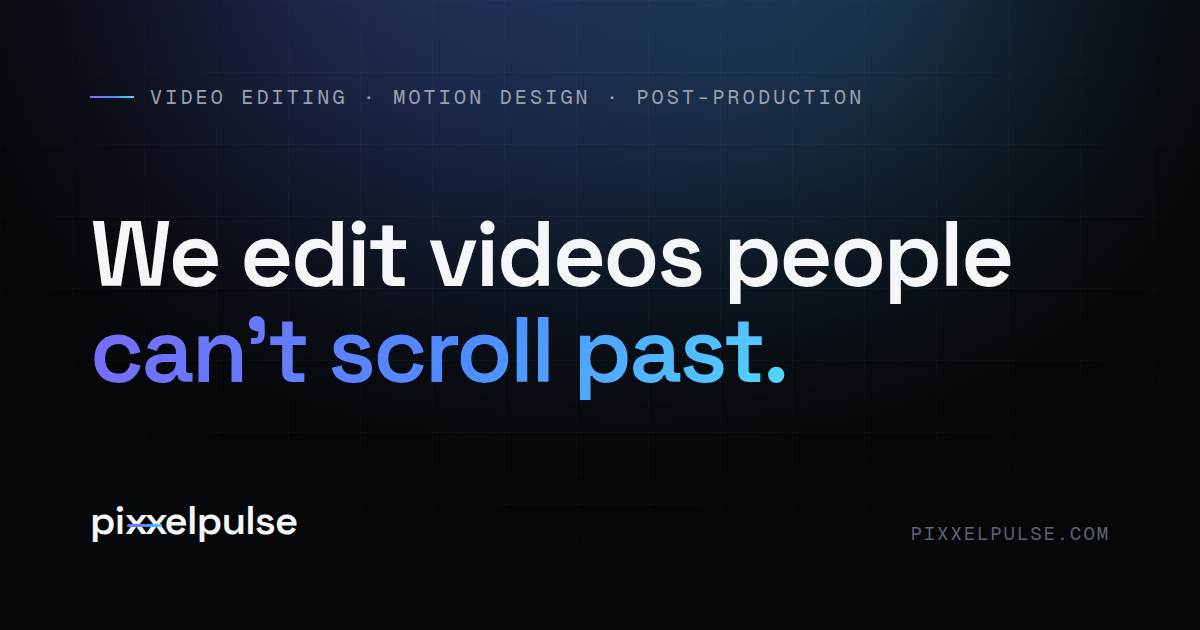
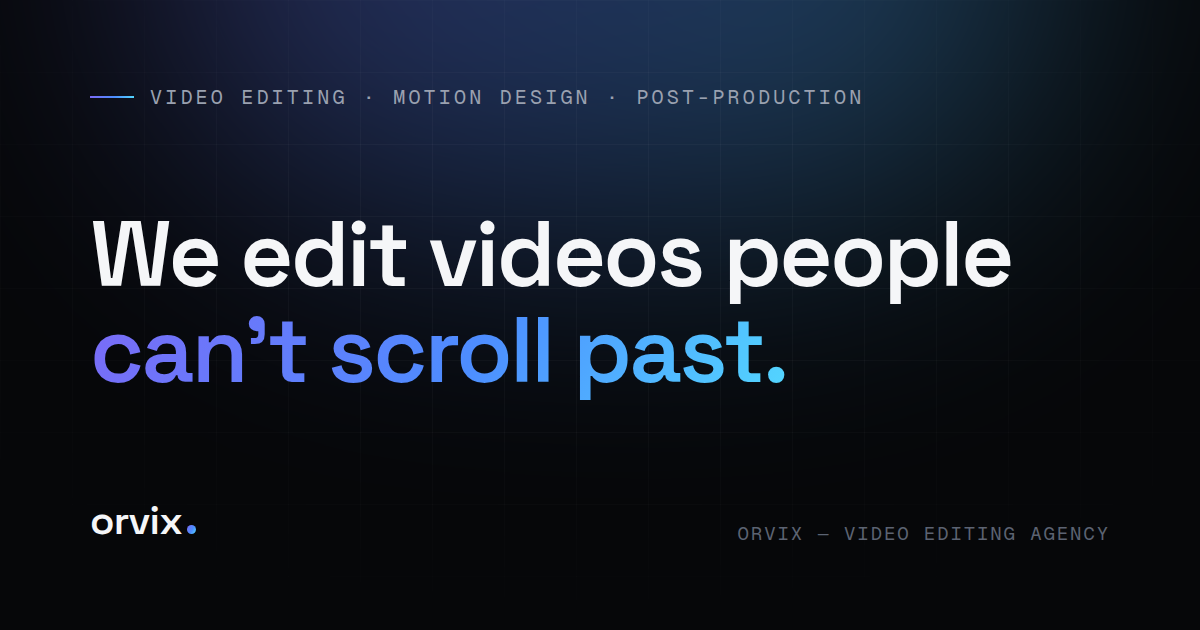
Rebrand to Orvix (interim brand name)
Wordmark, preloader, footer, metadata, JSON-LD, copy, and OG image now
carry the Orvix name. Domain, email, and social URLs unchanged pending
final brand decision.

Claude-Session: https://claude.ai/code/session_019smoYqEVk1jwg6t3PffYNN

Changed region(s): [[0.7092, 0.8143, 0.925, 0.8746], [0.0617, 0.8143, 0.2467, 0.8746], [0.6167, 0.8143, 0.6783, 0.8746]]

diff --git a/components/ui/Logo.tsx b/components/ui/Logo.tsx
@@ -1,27 +1,23 @@
 import { cn } from "@/lib/utils";
 
 /**
- * The pixxelpulse wordmark — the double-x carries a gradient pulse line
- * through its intersection.
+ * The Orvix wordmark — interim brand mark: lowercase display type with a
+ * gradient pulse dot. Final logo lands once the brand name is locked.
  */
 export function Wordmark({ className }: { className?: string }) {
   return (
     <span
       className={cn(
-        "relative inline-flex items-baseline font-display text-[1.35rem] font-semibold lowercase tracking-tight text-fg",
+        "relative inline-flex items-baseline gap-[3px] font-display text-[1.4rem] font-semibold lowercase tracking-tight text-fg",
         className
       )}
     >
-      pi
-      <span className="relative inline-block tracking-[-0.08em]">
-        xx
-        <span
-          aria-hidden
-          className="absolute left-[8%] right-[8%] top-1/2 h-[2px] -translate-y-1/2 rounded-full"
-          style={{ background: "var(--gradient-pulse)" }}
-        />
-      </span>
-      elpulse
+      orvix
+      <span
+        aria-hidden
+        className="mb-[3px] inline-block size-[7px] self-end rounded-full"
+        style={{ background: "var(--gradient-pulse)" }}
+      />
     </span>
   );
 }

diff --git a/content/services.ts b/content/services.ts
@@ -62,7 +62,7 @@ export const services: Service[] = [
     seo: {
       title: "Short-Form Video Editing Service — Reels, TikTok & Shorts",
       description:
-        "Premium short-form video editing for creators and brands. Hook-first Reels, TikToks, and Shorts with kinetic captions, delivered in 48–72 hours by Pixxelpulse.",
+        "Premium short-form video editing for creators and brands. Hook-first Reels, TikToks, and Shorts with kinetic captions, delivered in 48–72 hours by Orvix.",
     },
   },
   {
@@ -110,7 +110,7 @@ export const services: Service[] = [
     seo: {
       title: "YouTube Video Editing Service — Long-Form & Retention Editing",
       description:
-        "YouTube and long-form video editing engineered for retention. Full episode edits, documentary post-production, and weekly publishing pipelines by Pixxelpulse.",
+        "YouTube and long-form video editing engineered for retention. Full episode edits, documentary post-production, and weekly publishing pipelines by Orvix.",
     },
   },
   {
@@ -154,7 +154,7 @@ export const services: Service[] = [
     seo: {
       title: "Motion Graphics & Animation Studio — Brand Motion Systems",
       description:
-        "Motion design studio for brands and creators: logo animation, intros, lower thirds, explainer animation, and VFX. Build a motion identity with Pixxelpulse.",
+        "Motion design studio for brands and creators: logo animation, intros, lower thirds, explainer animation, and VFX. Build a motion identity with Orvix.",
     },
   },
   {
@@ -198,7 +198,7 @@ export const services: Service[] = [
     seo: {
       title: "Video Ad Editing & Performance Creative Agency",
       description:
-        "Performance video creative for paid social: UGC-style ads, A/B variant packs, and platform-ratio exports delivered in 48–72 hours by Pixxelpulse.",
+        "Performance video creative for paid social: UGC-style ads, A/B variant packs, and platform-ratio exports delivered in 48–72 hours by Orvix.",
     },
   },
   {
@@ -242,7 +242,7 @@ export const services: Service[] = [
     seo: {
       title: "Podcast Editing Service — Episodes, Clips & Audiograms",
       description:
-        "Podcast post-production that turns one recording into a week of content: full episode edits, 10+ vertical clips, and audiograms. By Pixxelpulse.",
+        "Podcast post-production that turns one recording into a week of content: full episode edits, 10+ vertical clips, and audiograms. By Orvix.",
     },
   },
   {
@@ -253,7 +253,7 @@ export const services: Service[] = [
     heroEyebrow: "Service — White-Label",
     heroHeading: "Your agency's post-production department.",
     heroSub:
-      "Marketing agencies, production studios, and design teams plug Pixxelpulse in as invisible editing capacity — NDA-first, SLA-backed, delivered under your brand.",
+      "Marketing agencies, production studios, and design teams plug Orvix in as invisible editing capacity — NDA-first, SLA-backed, delivered under your brand.",
     pain: {
       heading: "Hiring editors is slow. Client demand isn't.",
       body: "Scaling an in-house post team means recruiting, managing, and covering the quiet months. A white-label partner gives you elastic capacity with a fixed quality bar — you sell, we ship.",
@@ -286,7 +286,7 @@ export const services: Service[] = [
     seo: {
       title: "White-Label Video Editing for Agencies — Partner Program",
       description:
-        "White-label video editing and motion design capacity for agencies: dedicated editor pods, NDA-first workflows, and SLA-backed turnaround from Pixxelpulse.",
+        "White-label video editing and motion design capacity for agencies: dedicated editor pods, NDA-first workflows, and SLA-backed turnaround from Orvix.",
     },
   },
 ];

diff --git a/app/about/page.tsx b/app/about/page.tsx
@@ -10,7 +10,7 @@ import { JsonLd, breadcrumbJsonLd } from "@/lib/seo";
 export const metadata: Metadata = {
   title: "About — The Team Behind the Edits",
   description:
-    "Pixxelpulse started as one freelance editor in 2018 and grew into a full post-production team. Meet the people behind 1,300+ delivered videos.",
+    "Orvix started as one freelance editor in 2018 and grew into a full post-production team. Meet the people behind 1,300+ delivered videos.",
   alternates: { canonical: "/about" },
 };
 
@@ -42,13 +42,13 @@ export default function AboutPage() {
       <header className="relative mx-auto max-w-[1440px] px-6 pt-[calc(var(--nav-h)+3.5rem)] lg:px-12 lg:pt-[calc(var(--nav-h)+5.5rem)]">
         <SectionHeading
           as="h1"
-          eyebrow="About Pixxelpulse"
+          eyebrow="About Orvix"
           heading={
             <>
               Built in the edit, <span className="text-gradient">one frame at a time.</span>
             </>
           }
-          lead="Pixxelpulse started in December 2018 as one freelance editor taking on projects nobody else wanted to rush. Seven years and 1,300+ videos later, it's a full post-production team trusted by creators, startups, and brands across 40+ industries."
+          lead="Orvix started in December 2018 as one freelance editor taking on projects nobody else wanted to rush. Seven years and 1,300+ videos later, it's a full post-production team trusted by creators, startups, and brands across 40+ industries."
         />
       </header>
 
@@ -69,7 +69,7 @@ export default function AboutPage() {
             </Reveal>
             <Reveal delay={200}>
               <p className="text-lead">
-                Today Pixxelpulse runs as an editor-led studio: every project has a dedicated
+                Today Orvix runs as an editor-led studio: every project has a dedicated
                 editor, every edit gets a second pair of eyes, and every client gets the same
                 48–72 hour pulse that built our reputation.
               </p>

diff --git a/app/privacy/page.tsx b/app/privacy/page.tsx
@@ -3,7 +3,7 @@ import { site } from "@/content/site";
 
 export const metadata: Metadata = {
   title: "Privacy Policy",
-  description: "How Pixxelpulse collects, uses, and protects your information.",
+  description: "How Orvix collects, uses, and protects your information.",
   alternates: { canonical: "/privacy" },
   robots: { index: false },
 };
@@ -15,7 +15,7 @@ export default function PrivacyPage() {
       <h1 className="text-h2 mb-10">Privacy Policy</h1>
       <div className="space-y-6 leading-[1.8] text-fg-soft">
         <p>
-          Pixxelpulse (&ldquo;we&rdquo;, &ldquo;us&rdquo;) respects your privacy. This policy
+          Orvix (&ldquo;we&rdquo;, &ldquo;us&rdquo;) respects your privacy. This policy
           explains what we collect through {site.url} and why.
         </p>
         <h2 className="text-h3 pt-4 text-fg">What we collect</h2>

diff --git a/components/layout/Footer.tsx b/components/layout/Footer.tsx
@@ -34,7 +34,7 @@ export default function Footer() {
             <div className="flex items-center gap-3">
               <PulseGlyph className="size-8" />
               <span className="font-display text-lg font-semibold lowercase tracking-tight">
-                pixxelpulse
+                orvix
               </span>
             </div>
             <p className="mt-4 max-w-xs text-sm leading-relaxed text-fg-soft">
@@ -115,7 +115,7 @@ export default function Footer() {
         </div>
 
         <div className="mt-16 flex flex-col gap-4 border-t border-line pt-8 text-xs text-fg-faint sm:flex-row sm:items-center sm:justify-between">
-          <p>© {new Date().getFullYear()} Pixxelpulse. All rights reserved.</p>
+          <p>© {new Date().getFullYear()} Orvix. All rights reserved.</p>
           <div className="flex gap-6">
             <Link href="/privacy" className="transition-colors hover:text-fg-soft">
               Privacy

diff --git a/content/site.ts b/content/site.ts
@@ -2,11 +2,11 @@
  * Global site settings — edit everything here without touching components.
  */
 export const site = {
-  name: "Pixxelpulse",
+  name: "Orvix",
   tagline: "Post-production that moves people.",
   url: "https://www.pixxelpulse.com",
   description:
-    "Pixxelpulse is a premium video editing agency for creators, startups, and brands — 1,300+ videos delivered across 40+ niches, in as fast as 48 hours.",
+    "Orvix is a premium video editing agency for creators, startups, and brands — 1,300+ videos delivered across 40+ niches, in as fast as 48 hours.",
   email: "[email redacted]",
   phone: "[phone redacted]",
   whatsapp: "https://wa.me/[phone redacted]",

diff --git a/app/blog/page.tsx b/app/blog/page.tsx
@@ -9,7 +9,7 @@ import { JsonLd, breadcrumbJsonLd } from "@/lib/seo";
 export const metadata: Metadata = {
   title: "Insights — Video Editing, Retention & Content Strategy",
   description:
-    "Practical writing on video editing, YouTube retention, short-form strategy, and running a modern content pipeline — from the Pixxelpulse team.",
+    "Practical writing on video editing, YouTube retention, short-form strategy, and running a modern content pipeline — from the Orvix team.",
   alternates: { canonical: "/blog" },
 };
 

diff --git a/app/contact/actions.ts b/app/contact/actions.ts
@@ -52,7 +52,7 @@ export async function submitContact(
           "Content-Type": "application/json",
         },
         body: JSON.stringify({
-          from: process.env.LEAD_FROM ?? "Pixxelpulse Website <[email redacted]>",
+          from: process.env.LEAD_FROM ?? "Orvix Website <[email redacted]>",
           to: [to],
           reply_to: email,
           subject: `New project inquiry — ${projectType} — ${name}`,

diff --git a/app/contact/page.tsx b/app/contact/page.tsx
@@ -10,7 +10,7 @@ import { JsonLd, breadcrumbJsonLd, faqJsonLd } from "@/lib/seo";
 export const metadata: Metadata = {
   title: "Contact — Start a Project",
   description:
-    "Tell us about your project and get a reply within 12 hours. Book a call or send a brief — video editing, motion design, and post-production by Pixxelpulse.",
+    "Tell us about your project and get a reply within 12 hours. Book a call or send a brief — video editing, motion design, and post-production by Orvix.",
   alternates: { canonical: "/contact" },
 };
 

diff --git a/app/layout.tsx b/app/layout.tsx
@@ -48,7 +48,7 @@ export const metadata: Metadata = {
     url: site.url,
     title: `${site.name} — Premium Video Editing Agency`,
     description: site.description,
-    images: [{ url: "/og.png", width: 1200, height: 630, alt: "Pixxelpulse — post-production that moves people" }],
+    images: [{ url: "/og.png", width: 1200, height: 630, alt: "Orvix — post-production that moves people" }],
   },
   twitter: {
     card: "summary_large_image",

diff --git a/app/pricing/page.tsx b/app/pricing/page.tsx
@@ -11,7 +11,7 @@ import { JsonLd, breadcrumbJsonLd, faqJsonLd } from "@/lib/seo";
 export const metadata: Metadata = {
   title: "Pricing — Video Editing Subscriptions & Project Rates",
   description:
-    "Three ways to work with Pixxelpulse: per-project quotes, monthly video editing subscriptions, and white-label agency retainers. 48–72h turnaround standard.",
+    "Three ways to work with Orvix: per-project quotes, monthly video editing subscriptions, and white-label agency retainers. 48–72h turnaround standard.",
   alternates: { canonical: "/pricing" },
 };
 

diff --git a/app/terms/page.tsx b/app/terms/page.tsx
@@ -3,7 +3,7 @@ import { site } from "@/content/site";
 
 export const metadata: Metadata = {
   title: "Terms of Service",
-  description: "The terms that govern working with Pixxelpulse.",
+  description: "The terms that govern working with Orvix.",
   alternates: { canonical: "/terms" },
   robots: { index: false },
 };